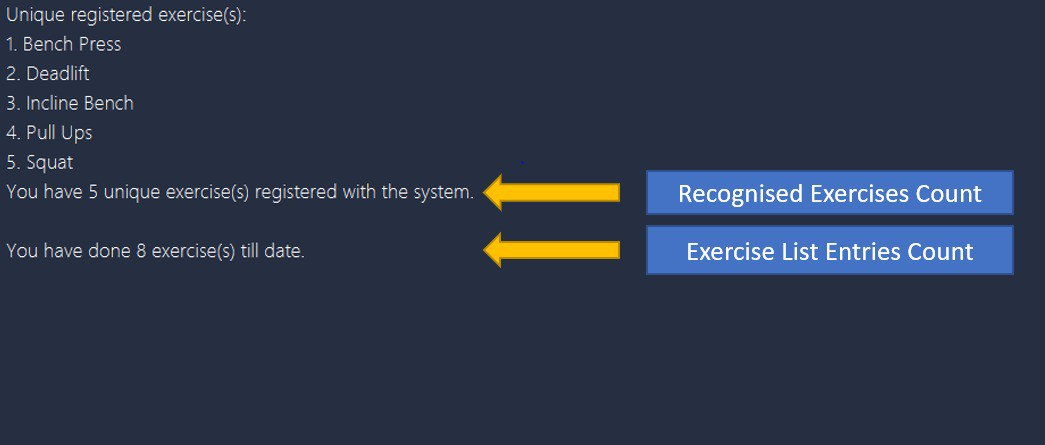
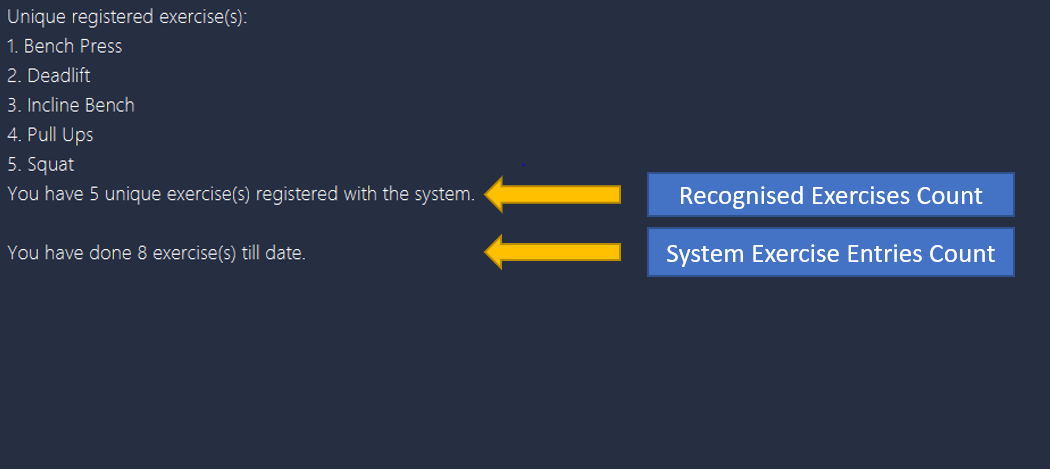
update UG

diff --git a/docs/UserGuide.md b/docs/UserGuide.md
@@ -78,7 +78,7 @@ of the exercises you have input.
 ![RecognisedList](images/RecognisedExercisesOrientation.png)
 
 * The `Recognised Exercises Count` provides the number of unique exercises registered in the system. 
-* The `Exercise List Entries Count` provides the total number of exercise entries in the system. 
+* The `System Exercise Entries Count` provides the total number of exercise entries in the system. 
 <br>
 
 #### Adding and Deleting from the Exercise Name List
